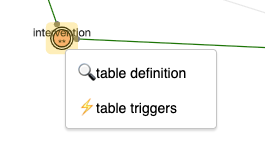
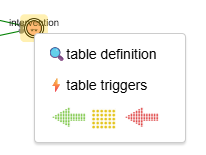
doc for 2.05 to be shared

Changed region(s): [[0.0, 0.0, 1.0, 0.9412], [0.8155, 0.3399, 0.8447, 0.8366]]

diff --git a/public/docs/quickTour.md b/public/docs/quickTour.md
@@ -92,35 +92,35 @@ note: *fk_synth* rely to*1 edge per FK* mode. See Edge menu.
 
 ### list nodes (i.e. tables)
 
-**list** generates a window with nodes of current ***perimeter*** (only selected if any, all otherwise)
+**list** generates a window with nodes of current ***perimeter***   
+(all if no selected nodes like below, only selected otherwise)
 
-<img src = "./img/listNodes.png" width = 300px style="border: 2px solid grey;">  
-( Index count don't include primary key )   
+<img src = "./img/listNodes.png" width = 380px style="border: 2px solid grey;">   
+
 
 **All headers are sortable**  
+**Left check columns allows reflect selection and can return with changes**
 **Clic on a table name goes directly to table's details**
-
+**Clic on trigger number goes directly to triggers'code**
 
 --- 
 
-### table details
+### table definition 
 
-you can go to details 
-- from the previous node list (also from an edge list)
-- from a contextual menu in the graph
-  - right-click on a node let appear a sub menu: 
-
-<img src = "./img/contextualNodeMenu.png" width ="240px" style="border: 1px solid grey;">
-
-  ( '*table triggers*' if any)
-
-#### table definition  
+- clic on a table name in a list (nodes or edges list)
+- clic on *table definition* in a right-click contextual menu on a node:
+ 
+<img src = "./img/contextualNodeMenu.png" width ="160px" style="border: 1px solid grey;">
+ 
+#### table display
 
 a new tab show detailed schema information. 
 - if any comment in schema, a tip is available.
-- constraints list is out of pk and index. Can be *Unique* or *Exclude* constraints if any.
+- PK is not repeated in Indexes
+- constraints list (if any) is out of pk and index. 
+  - Can be *Unique* or *Exclude* constraints if any.
 
-Calculation for total constraints : PK + Indexes + other constraints
+Total constraints : PK + Indexes + other constraints
   
 <img src ="./img/tableDetails.png" width = "800px" style="border: 1px solid grey;">
 
@@ -142,7 +142,7 @@ In the upper sample, the `employee` table appears in *Impacted Tables* because a
 
 #### code details
 
-<img src ="./img/function-intervention-code.png" width = "500px" style="border: 1px solid grey;">
+<img src ="./img/function-intervention-code.png" width = "400px" style="border: 1px solid grey;">
 
 ---
 
@@ -170,21 +170,24 @@ This is the default FK presentation in the graph.
 ### 1 edge per column 
 
 A previous FK edge is splitted in an edge per matching columns.  
-Clic on ***Edges-label-show***  to see all matching column names:
+Clic on ***Edges-label-show***  to see **all** matching column names:
  
-<img src ="./img/edgePerColumn.png" width = "600px" style="border: 1px solid grey;">
+<img src ="./img/edgePerColumn.png" width = "700px" style="border: 1px solid grey;">   
 
-If the graph is too loaded with information:   
--select some edges before calling *1 edge per column*. 
--find direcly same information with ***hover***
+You can switch FK mode and label on an **edge basis with right click submenu**
+<img src ="./img/edgeFlipFlop.png" width = "200px">
+
+--- 
 
 ## Walk through the model 
 
 This kind of directed graph allows to walk through ***table dependencies***.  
 
- Actions apply to ***current perimeter***:  **selected visibles** if any, **all visibles** if none.
+### Actions on a group of nodes 
 
-### follow & show... *outgoing / incoming / both* 
+ Actions apply to ***current perimeter*** :  **selected visibles** if any, **all visibles** if none.
+
+#### Menus follow & show... *outgoing / incoming / both* 
 
 Starting from nodes in *current perimeter*, this action select next nodes in the chosen direction.  
 
@@ -195,12 +198,22 @@ The same start point *production-line* but with ***follow incoming***
 
 <img src ="./img/incomingProduction-line.png" width = "400px" style="border: 1px solid grey;">
 
-One can see dependencies are stopped by dry associations ( *line_product, authorization* ), the following option help to cross the barrier:
+One can see dependencies are stopped by dry associations ( *line_product, authorization* ), the following option help to cross the barrier only for association :
 
-### follow & show... association
+#### follow & show... association
 
 This continue the walk on the other side of a (dry) association ( now *product* and *employee* are selected): 
 <img src ="./img/associationProduction-line.png" width = "500px" style="border: 1px solid grey;">
+
+#### Individual actions on a chose node 
+The colored direction arrows allow to walk from the current node by : 
+green left : select outgoing 
+yellow center : select both 
+red right : select incoming 
+
+<img src = "./img/contextualNodeMenu.png" width ="160px" style="border: 1px solid grey;">
+
+
 
 ---
 

diff --git a/public/docs/menuEdgesSelectHide.md b/public/docs/menuEdgesSelectHide.md
@@ -1,13 +1,13 @@
 # Edge Menu
 
-<img src = "./img/edgesMenu.png" width = "200px">  
+<img src = "./img/edgesMenu.png" width = "160px">  
 
 ---
 
 ## Status Bar
 
 Displays selected and visible edges. Sample:  
-<img src = "./img/edgeStatusBar.png" width = "200px">  
+<img src = "./img/edgeStatusBar.png" width = "160px">  
 
 **4 selected / 12 total**
 
@@ -102,15 +102,8 @@ Enter manually or copy/paste your filter.
 
 <img src = "./img/edgeDetails.png" width = 150px>  
 
-By default, the graph is displayed with **one edge per FK**:  
-- The label is the name of the FK  
-
-### One Edge per Column
-
-Each related column between source and destination is shown as a link.  
-- Their labels are the corresponding columns  
-
----
+By default, the graph is displayed with **1 edge per FK**.  
+**1 edge per column**  split the edge in several parts, one part per involved columns. 
 
 ## Label... 
 
@@ -138,11 +131,14 @@ Displays:
 
 <img src="./img/edgeLabelsNxM.png" width="600px" />  
 
-These actions apply to the current edge perimeter (selected edges if any, all if no selection).  
+#### individual actions 
 
-💡 **Tip:** Hovering edges also shows details.  
+With previous menus entries,  actions apply to the current edge perimeter (selected edges if any, all if no selection). 
 
-#### Font + / -  
+The contextual menu on an edge by right clic allow individuals switches 
+<img src = "./img/edgeFlipFlop.png" width = "200px">
+
+#### label.. Font + / -  
 
 Increase or decrease font size of edge labels in the current perimeter (selected edges if any, all otherwise).  
 
@@ -156,15 +152,15 @@ The **Source**, **Target**, and **FK** headers allow sorting.
 
 #### Mode *One edge per FK* 
 
-<img src="./img/edgesList.png" width="600px" style="border: 1px solid grey;"/>    
- When an edge is in mode *1 Edge per FK* a straight line symbol  remains this mode 
-<img src ="../../img/onePerFk.png" width="50px">   
+<img src="./img/edgesList.png" width="600px" style="border: 1px solid grey;"/>  
+
+ When an edge is in mode *1 Edge per FK* a straight line symbol  remains this mode in columns <img src ="../../img/onePerFk.png" width="50px">   
 
 
 #### Mode *One edge per Column*  
 
 For edges in mode *1 edge per column* the list show corresponding columns names on successive lines.    
-Edges in *1 per FK* have the straight line symbol in place of columns.   
+In a mixed mode some using individual changes, some edges can stay in 1 per FK as below.   
 
 <img src="./img/edgesListPerColumn.png" width="700px" style="border: 1px solid grey;"/>  
 
@@ -173,24 +169,26 @@ Edges in *1 per FK* have the straight line symbol in place of columns.
 
 # Data Model...
 
-Actions that add or modify information in the original graph.  
+***Actions that add or modify information in the original graph.***  
 
 <img src = "./img/dataModelMenu.png" width = 180px>  
 
 ### Generate Trigger Impacts
 
-Analyzes all triggers and scans function code to identify C(R)UD operations managed by the trigger.  
+**Goal : Analyzes  triggers and scans function code to identify C(R)UD operations managed by the trigger.**  
 
-Adds **oriented edges** from the trigger’s source table to the impacted tables.  
+Adds **oriented edges** from the trigger’s source table to the **impacted tables**.  
 Trigger impact edges:  
-- Are styled distinctly  
-- Have the trigger’s name as label  
-- Have native category `trigger_impact`  
+- have special style  
+- are labbled with the trigger’s name  
+- Have native category `trigger_impact` that alloww to filter them later ( native category )  
 
-Example (only one trigger impact in `democytodb`):  
+
 <img src="./img/triggerHover.png" width="250px" style="border: 1px solid grey;"/>  
 
 ### Simplify Associations
+
+**Goal : reduce from the graph less significant informations** 
 
 For **dry association tables** (2 foreign keys, no other links, no extra columns):  
 
@@ -203,11 +201,11 @@ For **dry association tables** (2 foreign keys, no other links, no extra columns
 
 <img src="./img/collapseAssociations.png" width="400px" />
 
-In the upper image, *intervention*, an association node, was not simplified: it is no longer a *dry association* because it gained a new edge for a trigger.  
+In the upper image, *intervention*, is no longer a *dry association* because of the new generated edge for a trigger.  
 
 ### Restore Association
 
-Restores the original association nodes between tables for the edges in the current perimeter.  
+Restores the original association nodes between tables (for the edges in the current perimeter).  
 
 💡 **Tip:** The restored node appears in the middle; previous positions are lost.  
 

diff --git a/public/docs/menuNodesSelectHide.md b/public/docs/menuNodesSelectHide.md
@@ -91,18 +91,8 @@ This custom ***product*** category is created for demo by the `public/custom/dem
 if (node.data("label").includes("product")) node.addClass("product");
 ```
 
-A specific layout is also defined that you can see on the graph images:  
+A specific layout `  selector: "node.product"`has also been defined in the custom extensions  
 
-```js
-{
-  selector: "node.product",
-  style: {
-    "color": "#6D071A",
-    "font-size": "25px",
-    "font-style": "italic"
-  },
-},
-```
 
 #### How to See Categories
 
@@ -139,14 +129,15 @@ Example: select *first nodes with 2 outgoing* → set **AND** → select *no inc
 - **Show**: default display with table name on node  
 - **Hide**: no label (a single point). Node size is reduced to this point  
 
-Below, *associations* were selected (*Filter by native category → All association*).  
-Then menu *Label → Hide* reduces them visually as small circles.  
+#### label hide 
+Below, only *associations* were selected (*Filter by native category → All association*).  
+***Label → Hide*** reduces them visually as small circles.  
 
 <img src = "./img/labelHide.png" width = 300px>  
 
 *(If no nodes are selected, the action applies to all visible nodes).*  
 
-- **Font +/-**: increase or decrease the font size of node labels in the current perimeter (selected if any, all if none).  
+- **Font +/-**: increase or decrease the font size of node labels in the current perimeter
 
 💡 **Tip:** Useful to emphasize certain parts of the graph.  
 
@@ -159,25 +150,25 @@ This applies to the current perimeter (selected nodes if any, all nodes otherwis
 
 **All headers are sortable** by clicking on the header.  
 
-<img src = "./img/listNodes.png" width = 300px style="border: 2px solid grey;">  
+<img src = "./img/listNodes.png" width = 360px style="border: 2px solid grey;">  
 
 #### Chaining to Table Details 
 
-- Clicking on a table name opens its table definition.  
-   <img src = "./img/detailsFromList.png" width ="650px">  
+Clic on a table name to open details :  
+   <img src = "./img/detailsFromList.png" width ="800px" style="border: 2px solid grey;">  
 
-- Clicking on a trigger number opens its trigger definition.  
+Clicking on a trigger number opens its trigger definition.  
  <img src = "./img/triggersFromList.png" width ="600px">  
 
 #### Close Button 
 
 <img src = "./img/closeButton.png" width ="50px" >
 
-Closes the current browser tab.  
+Closes the current browser tab : that will return to main graph.  
 
-💡 **Tip:**  
-If you don’t close a tab and later recall the same display, the tab will be updated but will not come to the front (for security reasons).  
-You can see it blink when updated. Don’t assume your action failed — check your tab list.  
+💡 **Tip: don't forget to close tab**  
+>If you don’t, a later call to the same named tab will update it as expected, it blinks BUT it will not come to front (standard security reasons).  
+Don’t assume your action failed — check your tab list first. 
 
 ---
 
